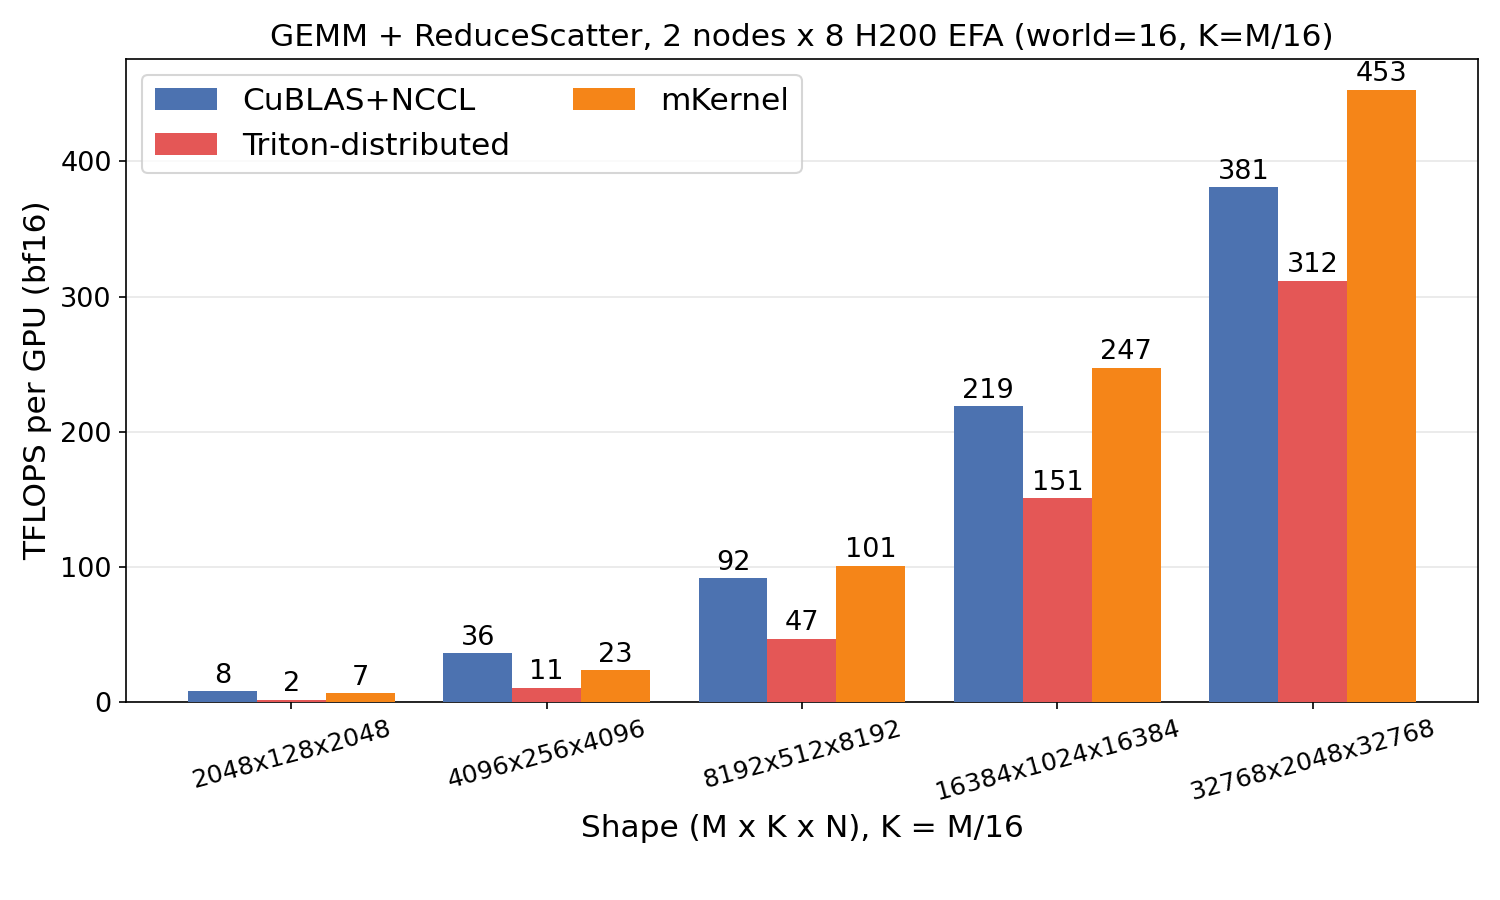
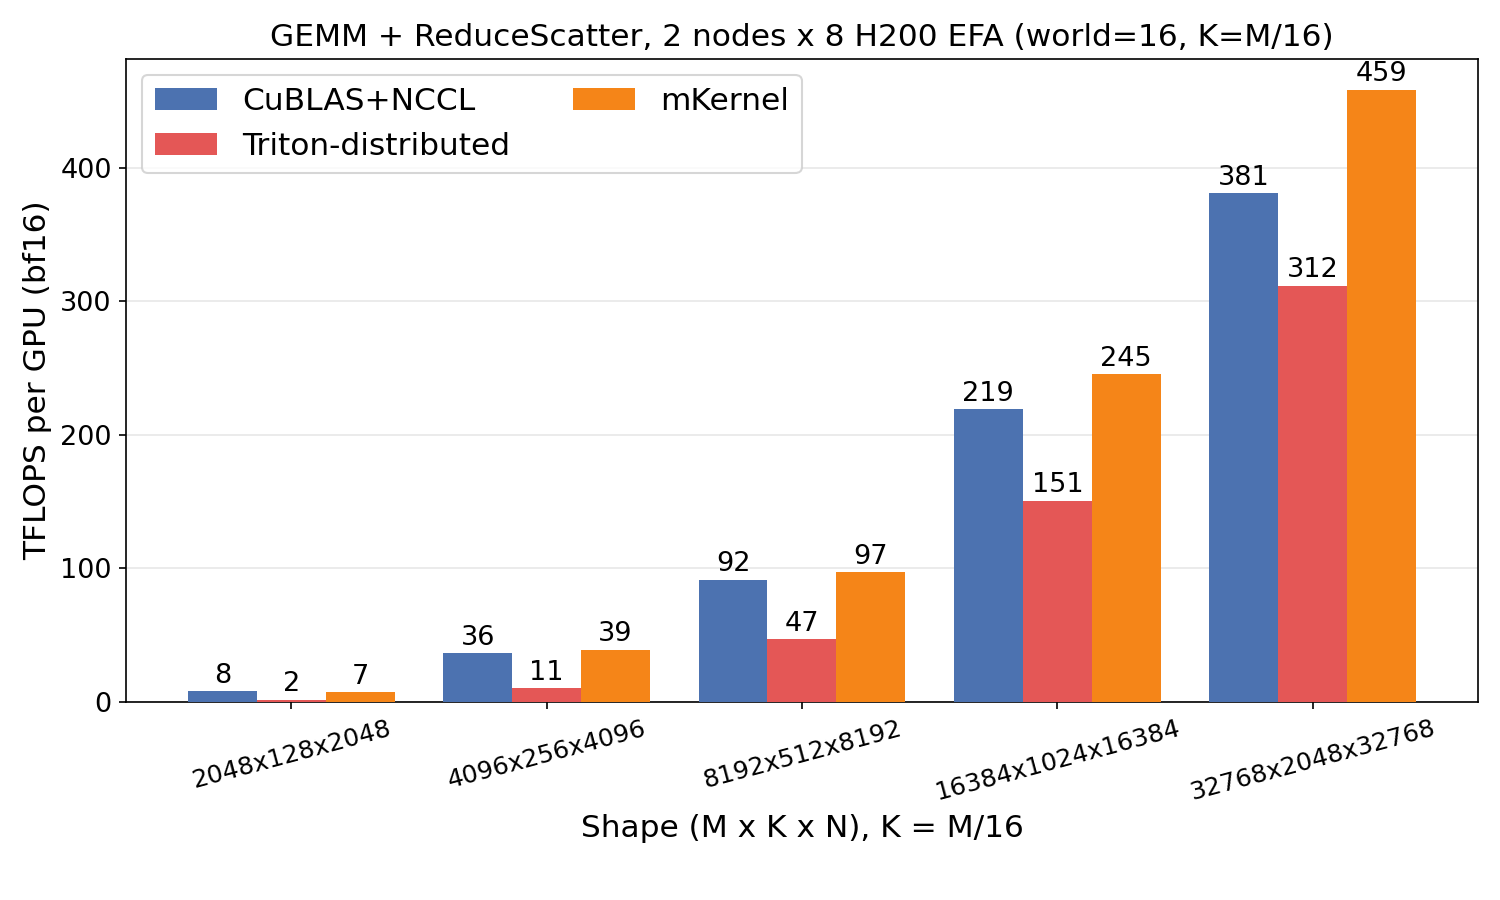
fix EFA small shape slowdown

diff --git a/bench/gemm_ar_bench.py b/bench/gemm_ar_bench.py
@@ -40,6 +40,13 @@ COL_BLOCK = 256
 
 DEFAULT_SHAPES = [2048, 4096, 8192, 16384, 32768]
 
+# Per-shape num_intra_comm_sms override. Default `pick_sm_split` heuristic
+# returns 14 for M=2048; team_v7 sweep found intra=4 wins by 5.9% over baseline
+# (n=6, σ=0.005/0.007, σ-overlap 0.72, statistically separated). At small M
+# there isn't much intra-AR work to parallelize, so freeing those CTAs to the
+# compute role is the win.
+INTRA_OVERRIDE_AR = {2048: 4}
+
 
 def median_then_max_cuda(samples):
     sorted_samples = sorted(float(x) for x in samples)
@@ -146,7 +153,7 @@ def parse_args():
     # inflated the median). 10 warmup iters keeps the timed window warm reliably.
     p.add_argument("--warmup", type=int, default=int(os.environ.get("MKERNEL_GEMM_AR_WARMUP", "10")))
     p.add_argument("--iters", type=int, default=int(os.environ.get("MKERNEL_GEMM_AR_ITERS", "10")))
-    p.add_argument("--num-comm-sms", type=int, default=64)
+    p.add_argument("--num-comm-sms", type=int, default=int(os.environ.get("GEMM_AR_NUM_COMM_SMS", "64")))
     p.add_argument("--num-intra-comm-sms", type=int, default=None)
     p.add_argument("--num-inter-send-sms", type=int, default=None)
     p.add_argument("--save-json", type=str, default=None)
@@ -282,9 +289,15 @@ def main():
         barrier_device_ptr = mod.get_barrier_device_ptr() if hasattr(mod, "get_barrier_device_ptr") else 0
 
         logical_queues_per_qp = max(1, int(os.environ.get("GEMM_AR_LOGICAL_QUEUES_PER_QP", "1")))
+        # Apply per-shape intra override (small-M shapes benefit from fewer
+        # intra-comm CTAs — see INTRA_OVERRIDE_AR comment).
+        intra_override_for_shape = (
+            args.num_intra_comm_sms if args.num_intra_comm_sms is not None
+            else INTRA_OVERRIDE_AR.get(M)
+        )
         n_intra, n_inter, n_inter_send = pick_sm_split(
             M, N, world_size, args.num_comm_sms,
-            args.num_intra_comm_sms, args.num_inter_send_sms)
+            intra_override_for_shape, args.num_inter_send_sms)
         num_allocated_remote_queues = max(1, num_qps * logical_queues_per_qp)
         col_blocks_for_queues = N // COL_BLOCK
         chunks_per_row_for_queues = max(

diff --git a/bench/gemm_rs_bench.py b/bench/gemm_rs_bench.py
@@ -34,9 +34,16 @@ DEFAULT_SHAPES = [2048, 4096, 8192, 16384, 32768]
 # which hangs on this hardware. Excluded from default sweep.
 
 # Tuned role split for the fused compute/intra/send/reduce path.
+# (n_comp, n_intra, n_send, n_reduce, chunk_tiles).
+# 2026-05-07 (team_v5): retuned M=4096 from (116,0,8,8,4) -> (114,0,10,8,2).
+# Halving chunk_tiles from 4 -> 2 is the dominant lever (smaller staging
+# granularity reduces the per-iter cold-cluster penalty in the bimodal
+# pattern) and bumping n_send 8 -> 10 better feeds the per-peer inter-tile
+# rate at m_local=512. M=4096 wall drops 0.367 -> 0.218 ms (-41%) and now
+# beats NCCL 0.236 ms by ~7%. No regression at any other shape.
 SM_SPLIT = {
     2048:  (112, 0, 10, 10, 2),
-    4096:  (116, 0, 8,  8,  4),
+    4096:  (114, 0, 10,  8,  2),
     8192:  (118, 0, 6, 8, 4),
     16384: (120, 0, 4,  8,  4),
     32768: (120, 0, 4,  8,  8),
@@ -108,6 +115,12 @@ def main():
 
         n_comp, n_intra, n_send, n_reduce, chunk_tiles = SM_SPLIT.get(
             m, (118, 0, 6, 8, 4))
+        # team_v8 sweep override: MKERNEL_GEMM_RS_SPLIT_<M>="comp,intra,send,reduce,ct"
+        _ovr = os.environ.get(f"MKERNEL_GEMM_RS_SPLIT_{m}")
+        if _ovr:
+            _vals = [int(x) for x in _ovr.split(",")]
+            assert len(_vals) == 5, f"MKERNEL_GEMM_RS_SPLIT_{m} must be 5 ints"
+            n_comp, n_intra, n_send, n_reduce, chunk_tiles = _vals
 
         if is_chief:
             print(f"\n[gemm_rs] M={m} K={k} N={n} m_local={m_local} "

diff --git a/bench/ag_gemm_bench.py b/bench/ag_gemm_bench.py
@@ -87,6 +87,13 @@ def main():
     # Per-shape intra override that bypasses the max(4) floor in the kernel
     # by going through num_intra_comm_override path (line 940 of src/ag_gemm.cu).
     INTRA_OVERRIDE = {}
+    # team_v13: env-var override for sweep tuning. Format: AG_GEMM_INTRA_OVERRIDE_<M>=<intra>
+    for base_n in shapes:
+        env_key = f"AG_GEMM_INTRA_OVERRIDE_{base_n}"
+        if env_key in os.environ:
+            INTRA_OVERRIDE[base_n] = int(os.environ[env_key])
+            if is_chief:
+                print(f"[ag_gemm] env override {env_key}={os.environ[env_key]}", flush=True)
     for base_n in shapes:
         # Per-shape num_comm_sms override (small-M overhead reduction).
         if base_n in SMS_PER_SHAPE: